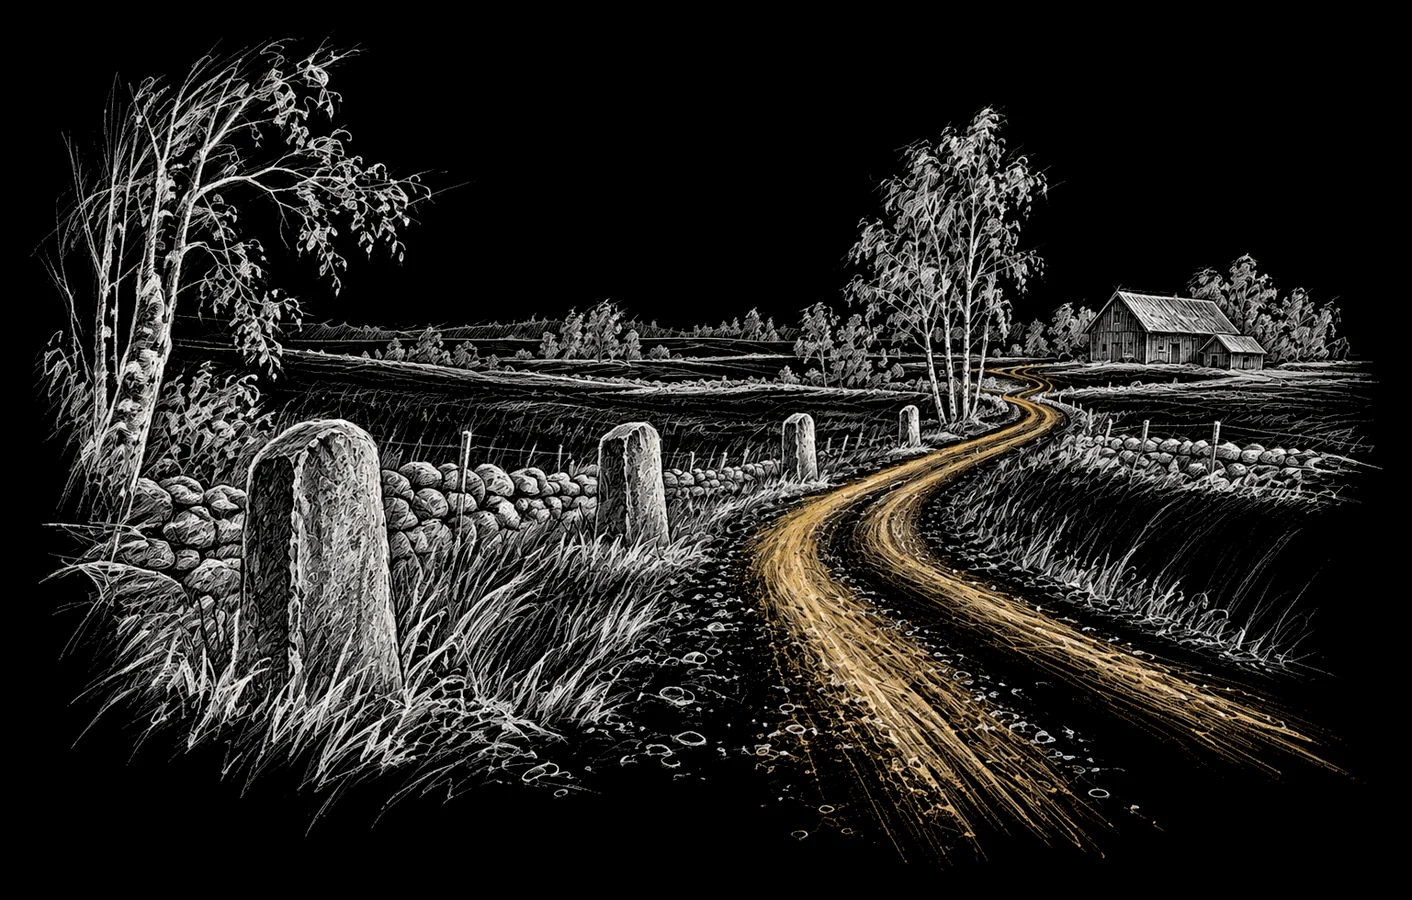
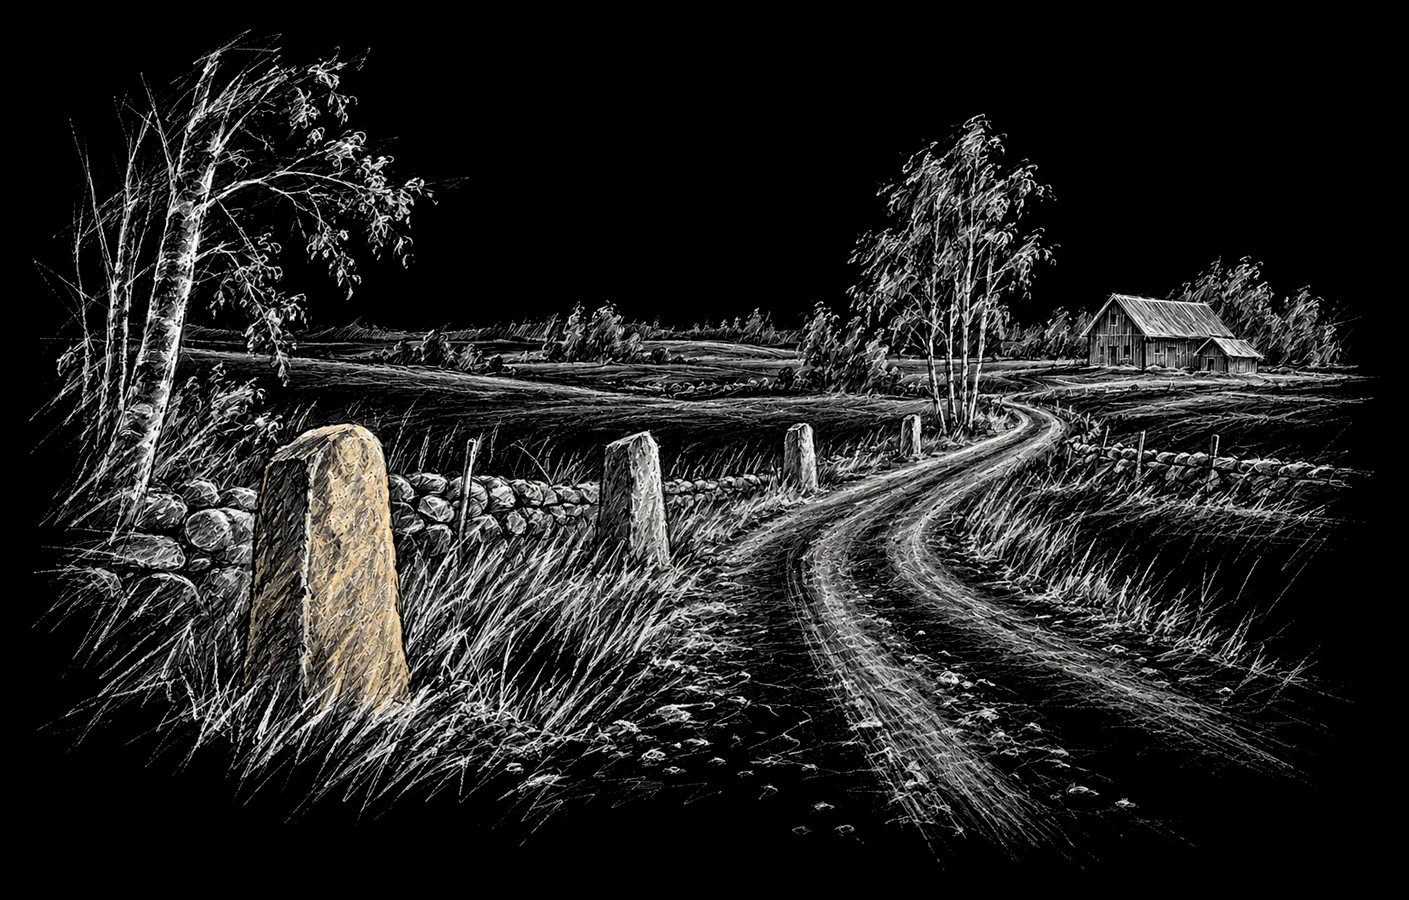
feat(web): teman for the election and Gaza, a quieter Teman drawing, the mosque screen among the promotions
Teman. Every thread was built from essays up to March 2026, so nothing written
on the election, on Gaza or on language models sat in any of them. Two new
ones: »Valet 2026« (six essays, in the order of the election year) and
»Folkmordet i Gaza« (two). »Maskinen och människan« keeps its name, URL and
art, gains »Döm maskinen efter vad den gör« and »Folkmordet skrevs under i
förväg«, and its framing now names AI. The two new threads borrow their covers
from their own essays' heroes until they get bespoke art.

The front page names its three threads by hand (TradarHome `ids`): the rule
»most essays first« can never surface a two-essay thread on something
happening now. /essaer/ keeps the old rule.

The Teman drawing had its whole road in ochre; at the 112px the opening gives
it, that was all the eye saw (»för mycket gult«). Redrawn as an edit of the
same sheet, road in graphite, the nearest milestone alone in ochre.

The closing promotions: the book stood alone under the podcast and the app with
the row's right half empty. The mosque screen stands there now (SkarmPromo),
with a drawing of its own in the series — a tv on a mosque's entrance wall, the
current prayer's row in ochre — on the same two halves as the row above.

diff --git a/apps/web/src/lib/ritningar.ts b/apps/web/src/lib/ritningar.ts
@@ -21,6 +21,8 @@ import moskeerLjus from "../assets/ritningar/moskeer.webp";
 import moskeerMork from "../assets/ritningar/moskeer-mork.webp";
 import poddenLjus from "../assets/ritningar/podden.webp";
 import poddenMork from "../assets/ritningar/podden-mork.webp";
+import skarmenLjus from "../assets/ritningar/skarmen.webp";
+import skarmenMork from "../assets/ritningar/skarmen-mork.webp";
 import tankareLjus from "../assets/ritningar/tankare.webp";
 import tankareMork from "../assets/ritningar/tankare-mork.webp";
 import temanLjus from "../assets/ritningar/teman.webp";
@@ -42,6 +44,11 @@ export const RITNINGAR = {
 	 *  gilt bands on its spine — the front page's close (BookPod), in the podcast drawing's
 	 *  10rem column, so the page ends on the kind of object it opened with. */
 	boken: { ljus: bokenLjus, mork: bokenMork },
+	/** A television on the wall of a mosque's entrance hall, a shoe shelf under it and a
+	 *  coat on its hook beside it; the screen dark, its list of the day's prayers suggested by
+	 *  marks, the current row in ochre — Moskéskärm, beside the book in the front page's
+	 *  closing band (SkarmPromo), in the same 10rem column. */
+	skarmen: { ljus: skarmenLjus, mork: skarmenMork },
 	/** A window at first light, a prayer rug on the sill — Bönetider's prose page, /bonetider/metod/. */
 	bonetider: { ljus: bonetiderLjus, mork: bonetiderMork },
 	/** A modest mosque among a Swedish town's roofs and birches. Not placed (DESIGN.md, »The Drawings«). */
@@ -50,10 +57,12 @@ export const RITNINGAR = {
 	aret: { ljus: aretLjus, mork: aretMork },
 	/** A writing desk: open books, old volumes, inkwell, an oil lamp — Tänkare. */
 	tankare: { ljus: tankareLjus, mork: tankareMork },
-	/** A gravel road through Swedish farmland, old milestones along its verge, the road
-	 *  alone in ochre — Teman: essays read in order along one line of thought, as stops on
-	 *  one road (the front page draws them as routes with stops). Replaced the open books
-	 *  joined by a thread (2026-09-27), a pun on »Trådar« that the new name no longer makes. */
+	/** A gravel road through Swedish farmland, old milestones along its verge, the nearest
+	 *  milestone alone in ochre — Teman: essays read in order along one line of thought, as
+	 *  stops on one road (the front page draws them as routes with stops). Replaced the open
+	 *  books joined by a thread (2026-09-27), a pun on »Trådar« that the new name no longer
+	 *  makes. The road itself was ochre until 2026-10-04: at the 112px the opening gives it,
+	 *  a whole road in ochre was all the eye saw (»för mycket gult«). */
 	teman: { ljus: temanLjus, mork: temanMork },
 	/** A Swedish farmhouse wall barometer, its needle in ochre — upright, for the front page's
 	 *  10rem column beside the AI-barometern's introduction. */

diff --git a/apps/web/src/styles/editorial.css b/apps/web/src/styles/editorial.css
@@ -102,9 +102,23 @@
 }
 
 .home .home-essays > .home-movement,
-.home .home-promotions > :is(.podd-app, .bookpod--home) {
+.home .home-promotions > .podd-app,
+.home .home-promotions-par > :is(.bookpod--home, .skarm-promo) {
 	margin: 0;
 	min-inline-size: 0;
+}
+
+/* The book and the mosque screen: the two halves PoddAppHome sets for the podcast and
+   the app (same gap, same 48rem turn), so the four promotions stand on one grid. */
+.home .home-promotions-par {
+	display: grid;
+	gap: var(--space-phi) var(--grid-gutter);
+}
+
+@media (width >= 48rem) {
+	.home .home-promotions-par {
+		grid-template-columns: repeat(2, minmax(0, 1fr));
+	}
 }
 
 .home .home-masthead {

diff --git a/DESIGN.md b/DESIGN.md
@@ -38,7 +38,7 @@ The sequence, top to bottom (new-reader priority, product decision 2026-09-26):
 8. **Tänkare as a dialogue** — the two traditions in facing columns joined by their shared essays; preserve the existing diagram and hover behavior.
 9. **AI-barometern** — its own movement on paper: the introduction with the barometer drawing beside three findings, one finding on a phone. It stood under the news and the year until 2026-09-27; three voices on one tint read as crammed. It sits here, before Praktiskt, because the mast groups it with Bönetider and Moskéer.
 10. **Praktiskt** — the four tools beside the static map of Sweden; the prayer-day horizon stays beside Bönetider.
-11. **The closing promotions** — podcast and app in the first row, book below, on one ground: paper since 2026-09-27, the last step of the alternation, with the footer's rule under it. The wrapper owns one `--space-section` gap between rows. Keep each promotion's heading, drawing, copy and destinations. This shared region groups ways to take the publication and tools elsewhere. On phones the promotions stack; at 768–1023px podcast/app remain two columns with drawings above the words; from 1024px their 10rem drawing columns sit beside the text. This avoids the previous 147px text columns at 768px. The book retains its full-width row.
+11. **The closing promotions** — podcast and app in the first row, the book and the mosque screen in the second (the screen beside the book since 2026-10-04, on the same two halves), on one ground: paper since 2026-09-27, the last step of the alternation, with the footer's rule under it. The wrapper owns one `--space-section` gap between rows. Keep each promotion's heading, drawing, copy and destinations. This shared region groups ways to take the publication and tools elsewhere. On phones the promotions stack; at 768–1023px podcast/app remain two columns with drawings above the words; from 1024px their 10rem drawing columns sit beside the text. This avoids the previous 147px text columns at 768px. The book retains its full-width row.
 
 **Why this order.** At 390px, the previous page placed »Vad är islam?« around 6,374px down, after the promotions, live material and topic collections. The agreed priority is new readers. Keep the distinctive editorial opening, then place foundations and deeper explanations together before secondary discovery and promotions. Proximity communicates the relationship between introduction and depth; order communicates priority. This supersedes the earlier decision to promote podcast/app directly under the cover.
 
@@ -64,7 +64,7 @@ Photographs belong to the essays and the fördjupningar; the site's own sections
 - **Two papers, no frame.** Each drawing exists twice: graphite on white for the light theme, the same drawing in white chalk on black for the dark (an edit of the light one, so the composition holds). The white paper is multiplied into its ground and the black one screened, so the drawing lies straight on the page in both themes. The drawing carries its own ground (`--color-bg`, which the tinted bands re-point) because blending needs one inside its stacking context. Inverting one drawing for both themes made a negative, a light sheet on the dark page "doesn't work", and chalk at reduced opacity was "too dark" (user review, 2026-09-26).
 - **Where, and on which line.** A drawing is placed by one of three rules, never by feel ("so it doesn't look like something we threw at the pages", 2026-09-26):
   1. *A section opening* — a hub's PageHead, a section's prose page (/bonetider/metod/), Grunden on the front page: the drawing stands in the column beyond the measure, flush with the frame's right edge (the edge the content below ends on). A movement built on a grid of its own stands it on that grid instead: Grunden's drawing starts on its third line (x 950 at 1440, where the articles' third column starts below) — on the canvas edge it hung 400px from its words on a line nothing near it drew (user review, 2026-09-26). **Only beside an ingress:** a tool page (/bonetider/, /moskeer/) opens on its tool, and there the drawing floated over the tool's first button and pushed the title below where every other section's stands.
-  2. *A drawing beside words* — the podcast and app band, the AI-barometern's introduction and the book at the page's close on the front page: a 10rem column, the drawing flush right in it, the words starting on the same line (x 295 at 1440) down the page; on a phone the drawing stands above the words at 7rem. The band's two are a matched pair, one 10rem box for both; a drawing alone beside its words is as tall as they are, like an opening's — the upright barometer then fills its column from the ingress's first line to the link's, on the kicker's line (in a 10rem box it stood 96px wide, 64px in from that line: "doesn't look correctly aligned", 2026-09-26). The book shares the closing region with the podcast and app, so it takes the pair's box, not its words' height: the same desktop column and drawn-object grammar. At tablet widths the paired promotions place their drawings above the words to preserve a useful text measure.
+  2. *A drawing beside words* — the podcast and app band, the AI-barometern's introduction, and the book and the mosque screen at the page's close on the front page: a 10rem column, the drawing flush right in it, the words starting on the same line (x 295 at 1440) down the page; on a phone the drawing stands above the words at 7rem. The band's two are a matched pair, one 10rem box for both; a drawing alone beside its words is as tall as they are, like an opening's — the upright barometer then fills its column from the ingress's first line to the link's, on the kicker's line (in a 10rem box it stood 96px wide, 64px in from that line: "doesn't look correctly aligned", 2026-09-26). The book shares the closing region with the podcast and app, so it takes the pair's box, not its words' height: the same desktop column and drawn-object grammar. At tablet widths the paired promotions place their drawings above the words to preserve a useful text measure.
   3. *A centred page* (404): on the page's own axis, above the words.
 - **Size follows the words (visual hierarchy, common region).** In an opening the drawing is exactly as tall as the opening: from the title's (or kicker's) top line to the last line of its words — the ingress, and on /vad-ar-islam/ the verse, on /ai-barometern/ the measurement line, which is why PageHead has an `efter` slot. It is never under 7rem. Drawing and words then share their top and bottom lines and read as one unit, and a short opening gets a small drawing, a long one a large one, so the page's own hierarchy sets the size: Teman's one-line ingress 112px, Tänkare's three lines 166px, /vad-ar-islam/'s title, ingress and verse ~500px. Built exactly: the drawing fills a cell spanning the opening's rows (`Ritning fyll`, `object-fit: contain`) and adds no height of its own. A fixed 11rem box outweighed a one-line ingress, stopped halfway down a five-line one, and left a third of /vad-ar-islam/'s opening empty ("consider the size … visual hierarchy, gestalt … so it looks balanced", 2026-09-26). Keep any bottom margin out of the opening's last row, or the cell runs past the text (/bonetider/metod/'s lead had one).
 - **Proportion follows the place.** The space beside an opening is wider than tall, so an opening's drawing is composed landscape (about 4:3 to 3:2). The upright barometer stood 140px wide there with a 400px empty field beside it; the hub has its own landscape version (the barometer beside a window, weather moving in), and the upright one stays in the front page's 10rem column, where upright fits.

diff --git a/.claude/skills/ritning/SKILL.md b/.claude/skills/ritning/SKILL.md
@@ -63,8 +63,12 @@ the front page's narrow column).
 - Say what the section **is**, as a thing in a Swedish room or landscape: a window at
   first light with a prayer rug (prayer times), the new crescent over a lake shore (the
   islamic year), a writing desk with an oil lamp (thinkers), a gravel road with old
-  milestones along it, the road in ochre (themes), the Quran on its wooden stand (the pillars and faith).
+  milestones along it, the nearest milestone in ochre (themes), the Quran on its wooden stand (the pillars and faith).
 - **One ochre thing**, named in the prompt, and it should be the point of the drawing.
+  Keep it **small**: a hub opening shows the drawing at ~110px, and an ochre area that is
+  large on the sheet is all the eye sees there. The themes' road was ochre along its whole
+  length and the user judged it »för mycket gult« (2026-10-04); the accent moved to one
+  milestone, redrawn as an edit of the same sheet so the composition held.
 - **No text, no letters, no imitation Arabic.** A mushaf's lines are suggested by soft
   hatching only — generated pseudo-script on a Quran page would be disrespectful.
 - **Don't repeat a motif** already in `lib/ritningar.ts` (two lake windows is one too many
